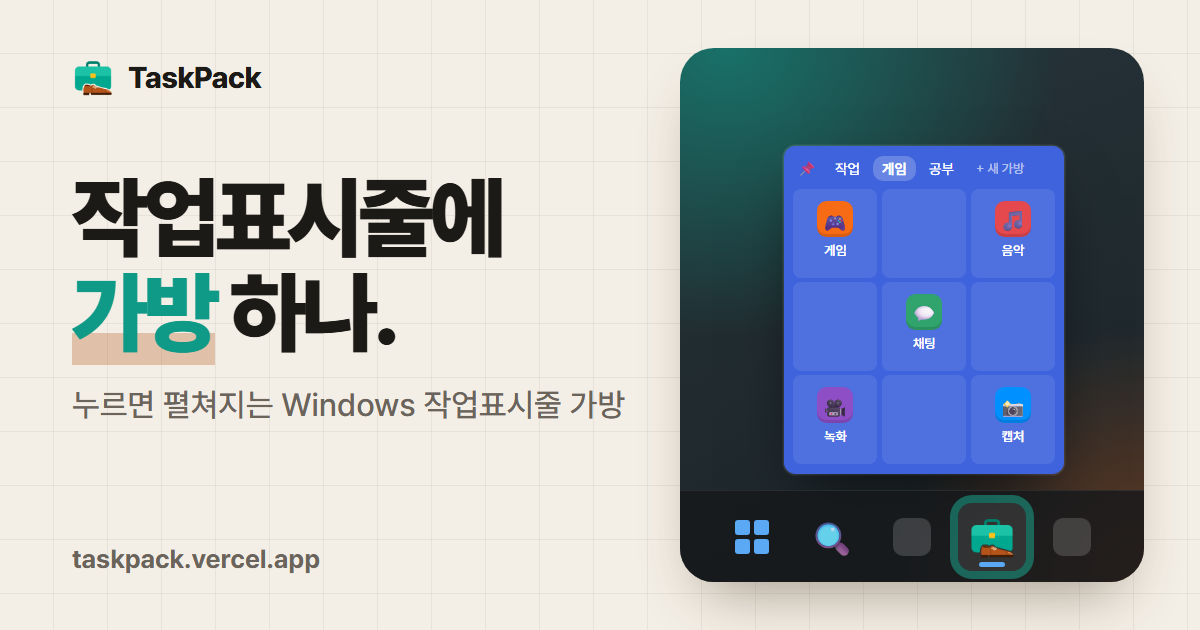
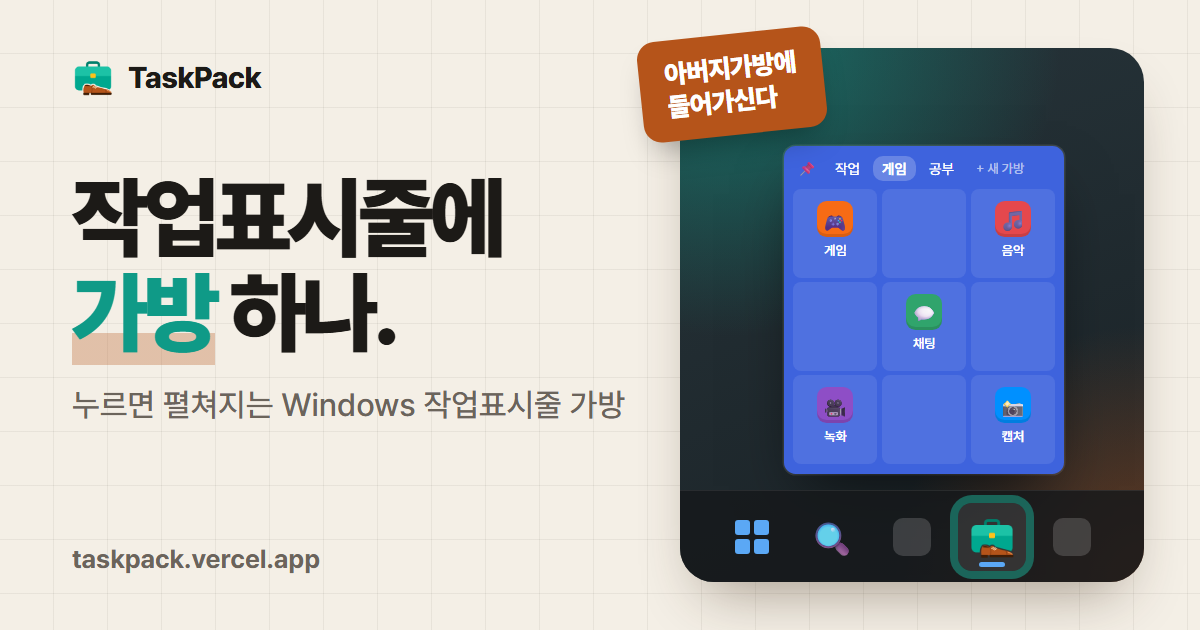
feat(promo): 링크 미리보기 카드에 아버지가방에들어가신다 스티커 추가

Changed region(s): [[0.5242, 0.0302, 0.7092, 0.2413]]

diff --git a/promo/cards.html b/promo/cards.html
@@ -184,7 +184,8 @@ const cards = {
       <div class="copy"><h1>작업표시줄에<br><span class="mark">가방</span> 하나.</h1>
       <p class="sub">누르면 펼쳐지는 Windows 작업표시줄 가방</p></div>
       <div class="desk" style="left:680px;right:56px;top:48px;bottom:48px">
-        <div style="position:absolute;left:50%;bottom:108px;margin-left:-128px">${bagHtml('blue', TABS, 1, GAME, 3, 280)}</div>${taskbar('ring')}</div>${url}</div>`,
+        <div style="position:absolute;left:50%;bottom:108px;margin-left:-128px">${bagHtml('blue', TABS, 1, GAME, 3, 280)}</div>${taskbar('ring')}</div>
+      <div class="sticker" style="left:640px;top:34px;font-size:26px;transform:rotate(-6deg)">아버지가방에<br>들어가신다</div>${url}</div>`,
 };
 
 const key = location.hash.slice(1) || 'ig-1';
